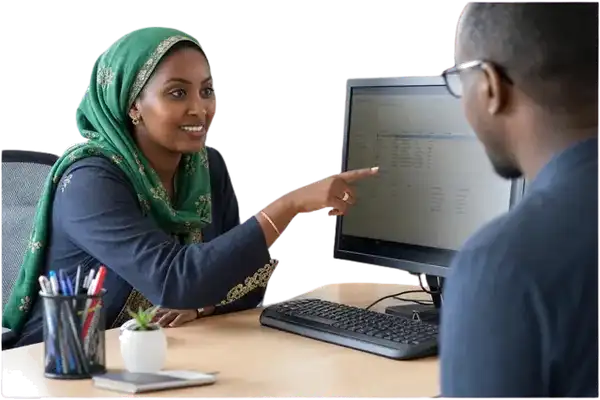
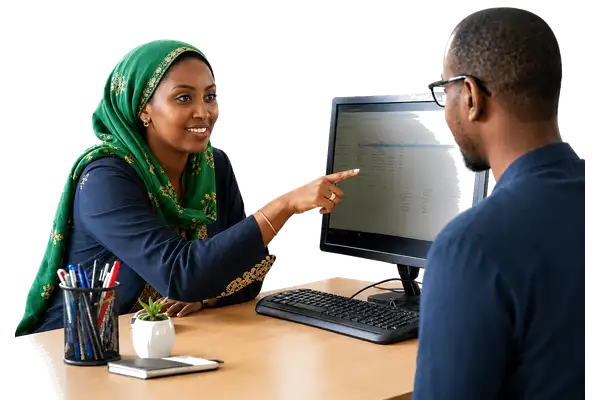
fix(hero/services): carousel-8-sm.png — deux personnes, détourage damier, fond transparent
Source: carousel-8-sm.png (1497×1051, PNG RGB sans alpha canal)
Méthode: suppression damier par détection pixels gris lumineux (brightness>205, grayness<18)
Deux personnes entières préservées (femme hijab + homme lunettes)
AVIF 18.8 KB · WebP 36.7 KB · JPG 21.9 KB · contain 600×400
Cache-bust ?v=2 → ?v=3 sur slide-services.*

diff --git a/index.html b/index.html
@@ -335,9 +335,9 @@
           </div>
           <div class="hero-slide__img">
             <picture>
-              <source srcset="/images/hero/slide-services.avif?v=2" type="image/avif">
-              <source srcset="/images/hero/slide-services.webp?v=2" type="image/webp">
-              <img src="/images/hero/slide-services.jpg?v=2"
+              <source srcset="/images/hero/slide-services.avif?v=3" type="image/avif">
+              <source srcset="/images/hero/slide-services.webp?v=3" type="image/webp">
+              <img src="/images/hero/slide-services.jpg?v=3"
                    alt="Équipe Info Experts — maintenance et réparation informatique aux Comores"
                    width="600" height="230"
                    loading="lazy" decoding="async">
@@ -379,7 +379,7 @@
       <img src="/images/hero/slide-reseau-thumb.webp?v=2" alt="Réseau" width="72" height="40" loading="lazy" decoding="async">
     </div>
     <div class="hero-thumb" onclick="heroSlider.goTo(4)">
-      <img src="/images/hero/slide-services-thumb.webp?v=2" alt="Services" width="72" height="40" loading="lazy" decoding="async">
+      <img src="/images/hero/slide-services-thumb.webp?v=3" alt="Services" width="72" height="40" loading="lazy" decoding="async">
     </div>
   </div>
 
